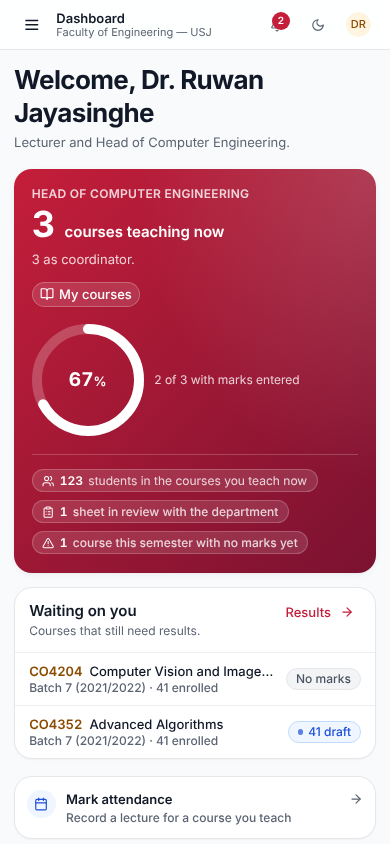
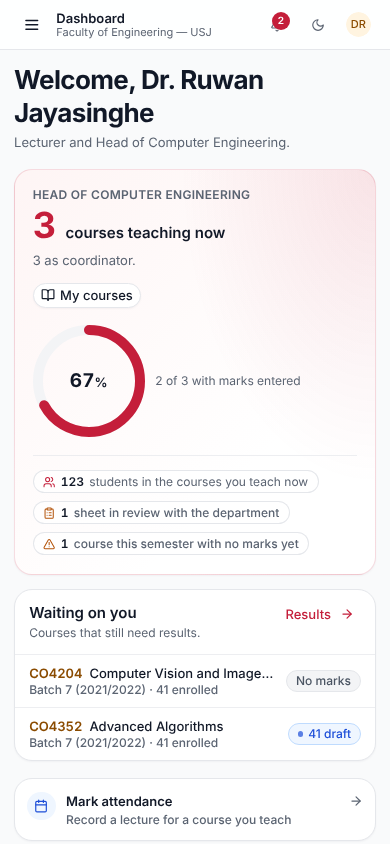
Hero cards: a soft brand wash instead of solid crimson
The hero card at the top of the dashboards and Results was a block of
dark crimson with white text, which was hard to sit in front of for
long. It is now the card itself, washed with the brand from one corner
under a light brand border. The headline number takes the brand colour,
the rest of the text is the page's own, and the chips, progress bar,
sparkline, ring and buttons inside it follow (a filled brand button and
an outlined one). Admin and staff dashboards change in step, so the
system stays consistent.

The strip across the top of a profile keeps the crimson gradient, now
under its own name (surface-band).

Claude-Session: https://claude.ai/code/session_01KQ2iECXhm1gn9gUwWbeEMe

diff --git a/pes_app/src/app/components/common/Surfaces.tsx b/pes_app/src/app/components/common/Surfaces.tsx
@@ -65,12 +65,12 @@ export function PageHeader({
 /* HeroCard                                                            */
 /* ------------------------------------------------------------------ */
 
-/** A button on the brand gradient: white, with the hero's own red as text. */
+/** The hero's main button: the brand, filled. */
 export const heroButtonClass =
-  "bg-white text-[var(--hero-to)] hover:bg-white/90 shadow-elevation-sm";
-/** A quieter button on the brand gradient. */
+  "bg-primary text-primary-foreground hover:bg-primary/90 shadow-elevation-sm";
+/** A quieter button on the hero: outlined on the card. */
 export const heroGhostButtonClass =
-  "bg-white/12 text-white hover:bg-white/20 border border-white/25";
+  "bg-card text-foreground hover:bg-muted border border-border";
 
 interface HeroCardProps {
   /** What the number is, above it: "Current CGPA". */
@@ -87,7 +87,8 @@ interface HeroCardProps {
   aside?: React.ReactNode;
   /** A strip of small facts along the bottom. */
   footer?: React.ReactNode;
-  /** brand: the crimson gradient, white text. tint: a soft brand wash. */
+  /** brand: the card washed with the brand, the number in the brand colour.
+   *  tint: a flat brand tint. */
   variant?: "brand" | "tint";
   className?: string;
 }
@@ -121,7 +122,7 @@ export function HeroCard({
         // footer at the bottom instead of a gap under it.
         "relative flex flex-col overflow-hidden rounded-card p-5 sm:p-6",
         brand
-          ? "surface-hero shadow-elevation-md"
+          ? "surface-hero border border-primary/15 shadow-elevation-sm"
           : "surface-tint border border-primary/15 shadow-elevation-sm",
         className,
       )}
@@ -140,13 +141,13 @@ export function HeroCard({
             <span
               className={cn(
                 "text-5xl font-bold tracking-tight tabular-nums leading-none",
-                brand ? "text-white" : "text-foreground",
+                brand ? "text-primary" : "text-foreground",
               )}
             >
               {value}
             </span>
             {label && (
-              <span className={cn("text-base font-semibold", brand ? "text-white" : "text-foreground")}>
+              <span className="text-base font-semibold text-foreground">
                 {label}
               </span>
             )}
@@ -178,7 +179,7 @@ export function HeroCard({
       </div>
       {footer && (
         <div className="mt-auto pt-5">
-          <div className={cn("border-t pt-4", brand ? "border-white/20" : "border-border")}>{footer}</div>
+          <div className="border-t border-border/70 pt-4">{footer}</div>
         </div>
       )}
     </motion.section>
@@ -227,20 +228,20 @@ export function StatStrip({
           // A pill on one line; a long label that wraps on a phone keeps
           // soft corners instead of a lozenge.
           "inline-flex items-center gap-1.5 rounded-[0.9rem] px-3 py-1 text-left text-xs transition-colors",
-          onHero
-            ? "bg-white/12 text-[var(--hero-muted)] ring-1 ring-inset ring-white/20"
-            : "bg-card text-muted-foreground ring-1 ring-inset ring-border",
-          it.onClick && (onHero ? "hover:bg-white/20" : "hover:bg-muted"),
+          // On the hero, a touch translucent so the wash shows through.
+          onHero ? "bg-card/80" : "bg-card",
+          "text-muted-foreground ring-1 ring-inset ring-border",
+          it.onClick && "hover:bg-muted",
         );
         const content = (
           <>
             {it.icon && (
               <it.icon
-                className={cn("h-3.5 w-3.5", onHero ? "text-white" : STRIP_TONE[it.tone ?? "neutral"])}
+                className={cn("h-3.5 w-3.5", STRIP_TONE[it.tone ?? (onHero ? "brand" : "neutral")])}
                 aria-hidden="true"
               />
             )}
-            <span className={cn("font-semibold tabular-nums", onHero ? "text-white" : "text-foreground")}>
+            <span className="font-semibold tabular-nums text-foreground">
               {it.value}
             </span>
             <span>{it.label}</span>

diff --git a/pes_app/src/styles/theme.css b/pes_app/src/styles/theme.css
@@ -193,14 +193,17 @@
   --motion-slow: 400ms;
   --motion-ease: cubic-bezier(0.4, 0, 0.2, 1);
 
-  /* Hero surfaces: the one card per page that carries the number that
-     matters (CGPA, overall attendance). Crimson into the crest's deep red;
-     white text on either end clears WCAG AA (5.8:1 and 10.7:1). */
+  /* The brand band: crimson into the crest's deep red, for the strip across
+     the top of a profile. White on either end clears WCAG AA. */
   --hero-from: #C41E3A;
   --hero-to: #7A1230;
-  --hero-fg: #FFFFFF;
-  --hero-muted: rgb(255 255 255 / 0.8);
-  --hero-track: rgb(255 255 255 / 0.22);
+  /* Hero cards: the one card per page that carries the number that matters
+     (CGPA, overall attendance). A soft wash of the brand on the card rather
+     than a block of crimson, which was hard to sit in front of for long; the
+     text is the page's own, and the number itself takes the brand colour. */
+  --hero-fg: var(--foreground);
+  --hero-muted: var(--muted-foreground);
+  --hero-track: var(--muted);
   /* A whisper of the brand for secondary emphasis (attention lists, tinted
      heroes), and the sweep across a loading skeleton. */
   --surface-tint: color-mix(in oklab, var(--primary) 5%, var(--card));
@@ -289,12 +292,9 @@
   --elevation-md: 0 2px 8px -2px rgb(0 0 0 / 0.45), 0 1px 3px -1px rgb(0 0 0 / 0.30);
   --elevation-lg: 0 12px 28px -8px rgb(0 0 0 / 0.55), 0 4px 10px -4px rgb(0 0 0 / 0.35);
 
-  /* A deeper hero on a dark page, so it glows rather than shouts. */
+  /* A deeper band on a dark page, so it glows rather than shouts. */
   --hero-from: #8E1630;
   --hero-to: #3A0B18;
-  --hero-fg: #FFFFFF;
-  --hero-muted: rgb(255 255 255 / 0.78);
-  --hero-track: rgb(255 255 255 / 0.18);
   --surface-tint: color-mix(in oklab, var(--primary) 9%, var(--card));
   --shimmer: rgb(255 255 255 / 0.06);
 }
@@ -639,13 +639,22 @@
 /* Surfaces and loading                                                */
 /* ------------------------------------------------------------------ */
 
-/* The hero card: the brand gradient with a soft highlight in the corner. */
+/* The hero card: the card itself, washed with the brand from one corner. */
 @utility surface-hero {
+  background-color: var(--card);
+  background-image:
+    radial-gradient(90% 130% at 100% 0%, color-mix(in oklab, var(--primary) 11%, transparent), transparent 60%),
+    linear-gradient(135deg, color-mix(in oklab, var(--primary) 5%, var(--card)) 0%, var(--card) 70%);
+  color: var(--hero-fg);
+}
+
+/* The brand band across the top of a profile: the gradient with a soft
+   highlight in the corner. */
+@utility surface-band {
   background-color: var(--hero-to);
   background-image:
     radial-gradient(120% 140% at 100% 0%, rgb(255 255 255 / 0.16), transparent 55%),
     linear-gradient(135deg, var(--hero-from) 0%, var(--hero-to) 100%);
-  color: var(--hero-fg);
 }
 
 @utility surface-tint {

diff --git a/pes_app/src/app/components/common/ProgressRing.tsx b/pes_app/src/app/components/common/ProgressRing.tsx
@@ -77,7 +77,7 @@ export function ProgressRing({
           cy={size / 2}
           r={radius}
           fill="none"
-          stroke={onHero ? "#FFFFFF" : TONE_STROKE[tone]}
+          stroke={TONE_STROKE[tone]}
           strokeWidth={strokeWidth}
           strokeLinecap="round"
           strokeDasharray={circumference}
@@ -91,7 +91,7 @@ export function ProgressRing({
             y1={size / 2 + (radius - strokeWidth / 2) * Math.sin((thresholdAngle * Math.PI) / 180)}
             x2={size / 2 + (radius + strokeWidth / 2) * Math.cos((thresholdAngle * Math.PI) / 180)}
             y2={size / 2 + (radius + strokeWidth / 2) * Math.sin((thresholdAngle * Math.PI) / 180)}
-            stroke={onHero ? "#FFFFFF" : "var(--foreground)"}
+            stroke="var(--foreground)"
             strokeWidth={2}
             opacity={onHero ? 0.7 : 0.45}
           />
@@ -102,7 +102,7 @@ export function ProgressRing({
           className={cn(
             "font-bold tabular-nums leading-none",
             size >= 120 ? "text-3xl" : "text-xl",
-            onHero ? "text-white" : "text-foreground",
+            "text-foreground",
           )}
         >
           <AnimatedNumber value={pct} decimals={Number.isInteger(pct) ? 0 : 1} />

diff --git a/pes_app/src/app/components/common/Sparkline.tsx b/pes_app/src/app/components/common/Sparkline.tsx
@@ -9,10 +9,11 @@ import { useChartMotion } from "./motion";
  */
 export function Sparkline({
   data,
-  onHero = false,
   className,
 }: {
   data: { label: string; value: number }[];
+  /** Kept for callers on a hero card. The hero is a light surface now, so
+   *  the line is the brand colour wherever it sits. */
   onHero?: boolean;
   className?: string;
 }) {
@@ -25,9 +26,9 @@ export function Sparkline({
           <Line
             type="monotone"
             dataKey="value"
-            stroke={onHero ? "#FFFFFF" : "var(--primary)"}
+            stroke="var(--primary)"
             strokeWidth={2.25}
-            dot={{ r: 2.5, fill: onHero ? "#FFFFFF" : "var(--primary)", strokeWidth: 0 }}
+            dot={{ r: 2.5, fill: "var(--primary)", strokeWidth: 0 }}
             isAnimationActive={duration > 0}
             animationDuration={duration * 1.6}
           />

diff --git a/pes_app/src/app/pages/admin/AdminDashboard.tsx b/pes_app/src/app/pages/admin/AdminDashboard.tsx
@@ -301,7 +301,7 @@ export default function AdminDashboard() {
                     label="Average attendance"
                   />
                 ) : (
-                  <span className="flex h-[112px] w-[112px] items-center justify-center rounded-full border-[10px] border-[var(--hero-track)] text-2xl font-bold text-white">
+                  <span className="flex h-[112px] w-[112px] items-center justify-center rounded-full border-[10px] border-[var(--hero-track)] text-2xl font-bold text-foreground">
                     —
                   </span>
                 )}

diff --git a/pes_app/src/app/pages/admin/AdminProfile.tsx b/pes_app/src/app/pages/admin/AdminProfile.tsx
@@ -144,7 +144,7 @@ export default function AdminProfile() {
             animate="show"
             className="overflow-hidden rounded-card border border-border bg-card shadow-elevation-sm"
           >
-            <div className="surface-hero h-20 sm:h-24" aria-hidden="true" />
+            <div className="surface-band h-20 sm:h-24" aria-hidden="true" />
             <div className="px-4 pb-5 sm:px-6">
               <div className="-mt-12 flex flex-col items-start gap-3">
                 {/* The photo itself opens the file picker too, with the

diff --git a/pes_app/src/app/pages/staff/StaffProfile.tsx b/pes_app/src/app/pages/staff/StaffProfile.tsx
@@ -165,7 +165,7 @@ export default function StaffProfile() {
             animate="show"
             className="overflow-hidden rounded-card border border-border bg-card shadow-elevation-sm"
           >
-            <div className="surface-hero h-20 sm:h-24" aria-hidden="true" />
+            <div className="surface-band h-20 sm:h-24" aria-hidden="true" />
             <div className="px-4 pb-5 sm:px-6">
               <div className="-mt-12 flex flex-col items-start gap-3">
                 {/* The photo itself opens the file picker too, with the

diff --git a/pes_app/src/app/pages/Profile.tsx b/pes_app/src/app/pages/Profile.tsx
@@ -283,7 +283,7 @@ export default function Profile() {
         animate="show"
         className="overflow-hidden rounded-card border border-border bg-card shadow-elevation-sm"
       >
-        <div className="surface-hero h-20 sm:h-24" aria-hidden="true" />
+        <div className="surface-band h-20 sm:h-24" aria-hidden="true" />
         <div className="px-4 pb-5 sm:px-6">
           {/* The photo across the band's edge, the name under it: a long
               name wraps in the card, never over the band. */}

diff --git a/pes_app/src/app/components/common/Animated.tsx b/pes_app/src/app/components/common/Animated.tsx
@@ -66,7 +66,7 @@ const BAR_TONE: Record<StatusTone | "hero", string> = {
   info: "bg-[var(--status-info-fg)]",
   neutral: "bg-[var(--status-neutral-fg)]",
   brand: "bg-primary",
-  hero: "bg-white",
+  hero: "bg-primary",
 };
 
 /**
